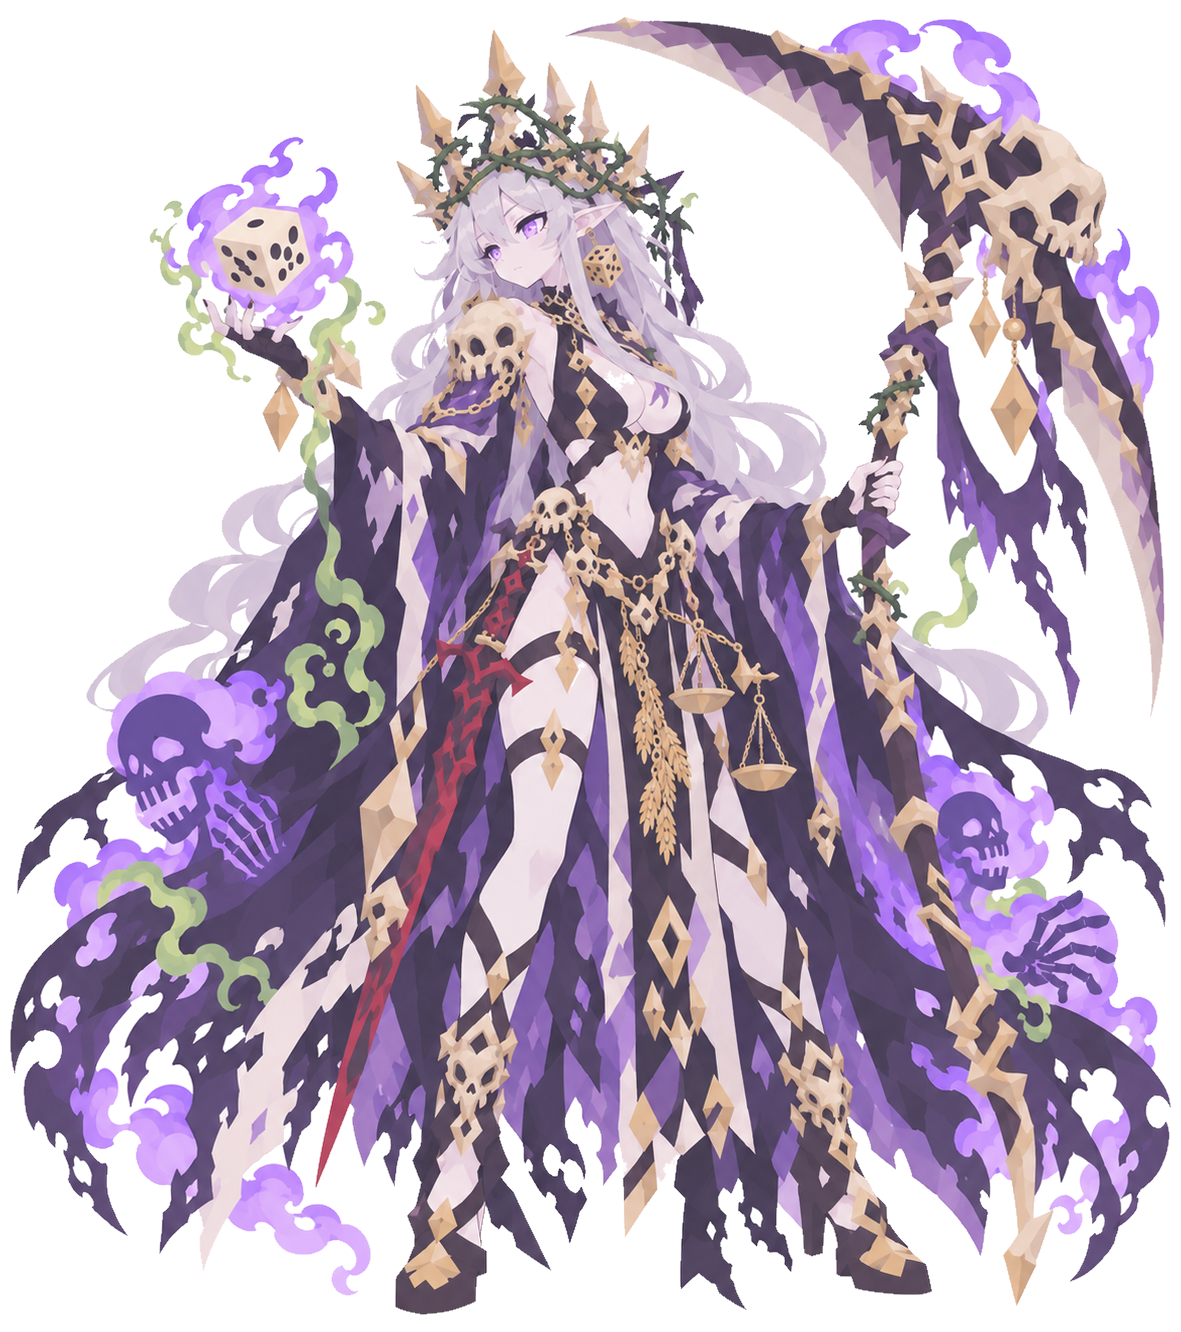
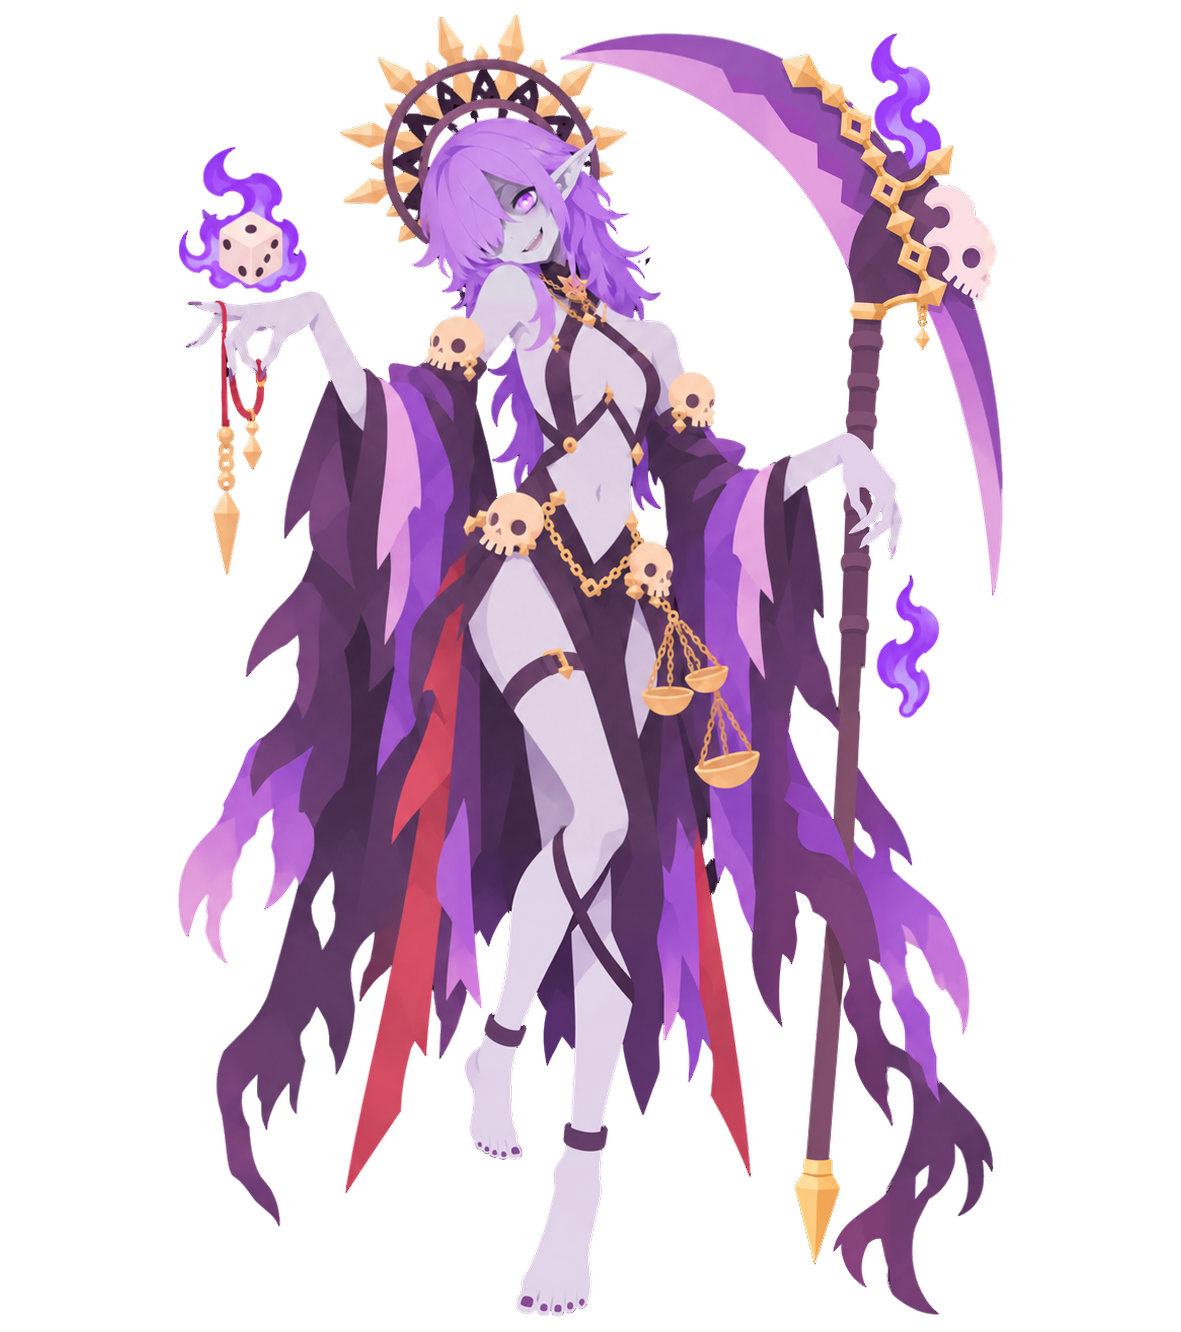
art: 영계의 지배자 확정본 적용 (cs4_skeleton_general_11, AD 구멍 검사 PASS)

diff --git a/docs/art/ART_QUEUE.md b/docs/art/ART_QUEUE.md
@@ -21,7 +21,7 @@
 | 2 | 화풍 통일 | ✅ (2026-11-12 적용) **확정 몬스터 12종 모험가판** (고블린·방패 고블린·산적·경비병·늑대·안개·그림자·구울·좀비·저주 인형·심연의 불·심연의 아이). 외곽선 제거(r52) → 사용자 확인: 늑대·안개·아이 외 OK → 늑대·안개(보석·리본 짙게)·아이 + 12종 주사위 전수 점검(그림자·고블린·방패 고블린도 수정) → r53 | 완료 |
 | 3 | 화풍 통일 | **캐릭터 표정 35장** — 피드백 체크리스트 docs/art/FACE_FEEDBACK_2026-11-12.md. 완료: 광전사(분노만 6안 중 선택 대기, 가슴 '원본부터 키우기'는 전신 수정 여부 답변 대기), 매혹사(화남 6안 중 선택 대기), 수호자, 폭발병. 진행 중: 주술사(기본·웃음 OK, 화남·슬픔·고통 이펙트 제거 중). 남음: 곡예사(머리 위 표정 장식·기쁨 눈·고통), 해적(전신부터 피부 톤). 추가 요청: 7명 분노 표정 감성 맞추기(방향 답변 대기) | 진행 중 (주술사) |
 | 4 | 수정 중 몬스터 | 각 수정본 → 피드백 확인 → 모험가판 화풍까지 한 번에: ① 아머 고블린(rs14f: rs14d가 이미 모험가판, 귀걸이 주사위만 수정 — AD PASS, 컨펌 대기) ② ✅ 오크(초록 복원 → 짙게 3단계 중 사용자 "5a" 컨펌 → 2026-11-18 적용, 1024×1536) ③ ✅ 광견(cs4_mad_dog_3 — 노출↑·모험가판, 사용자 "광견 ok." → 2026-11-17 적용) ④ 독거미 ⑤ 산양 ⑥ 암흑 늑대(dw2) ⑦ 심연의 사제(손가락) ⑧ 미믹(cs4_mimic_1 중간 확정 2026-11-18 적용, 가슴 키운 개선본 검수 중) | 진행 중 (광견) |
-| 5 | 보스 마무리 | ① 공허의 눈(b25 / 단순화 vs1 선택) ② 영계의 지배자(발) ③ 광란의 마수 → 각 모험가판 → 보스 6종 일괄 나열 컨펌 | 대기 |
+| 5 | 보스 마무리 | ① 공허의 눈(b25 / 단순화 vs1 선택) ② ✅ 영계의 지배자(cs4_skeleton_general_11 — 사용자 "영계 ok" → 2026-11-26 적용, AD 구멍 검사 PASS) ③ 광란의 마수 → 각 모험가판 → 보스 6종 일괄 나열 컨펌 | 대기 |
 | 6 | 미컨펌 디자인 | **디자인부터 다시** — 하나씩 시안 → 컨펌 → 다음: ① 슬라임 ② 독 슬라임 ③ 유령(2026-11-11 사용자: 컨펌한 적 없음) ④ 고블린 족장 ⑤ 젤라틴 큐브 ⑥ 망령 ⑦ 오크 투사 ⑧ 리치 견습생 ⑨ 다크 나이트(정예, 일반판과 공유) | 대기 |
 | 7 | 후속 | 몬스터 표정 세트 → 같은 종족 피부 톤 맞추기 → 스킬 아이콘 61종 → 이벤트 일러스트 16종 | 대기 |
 
